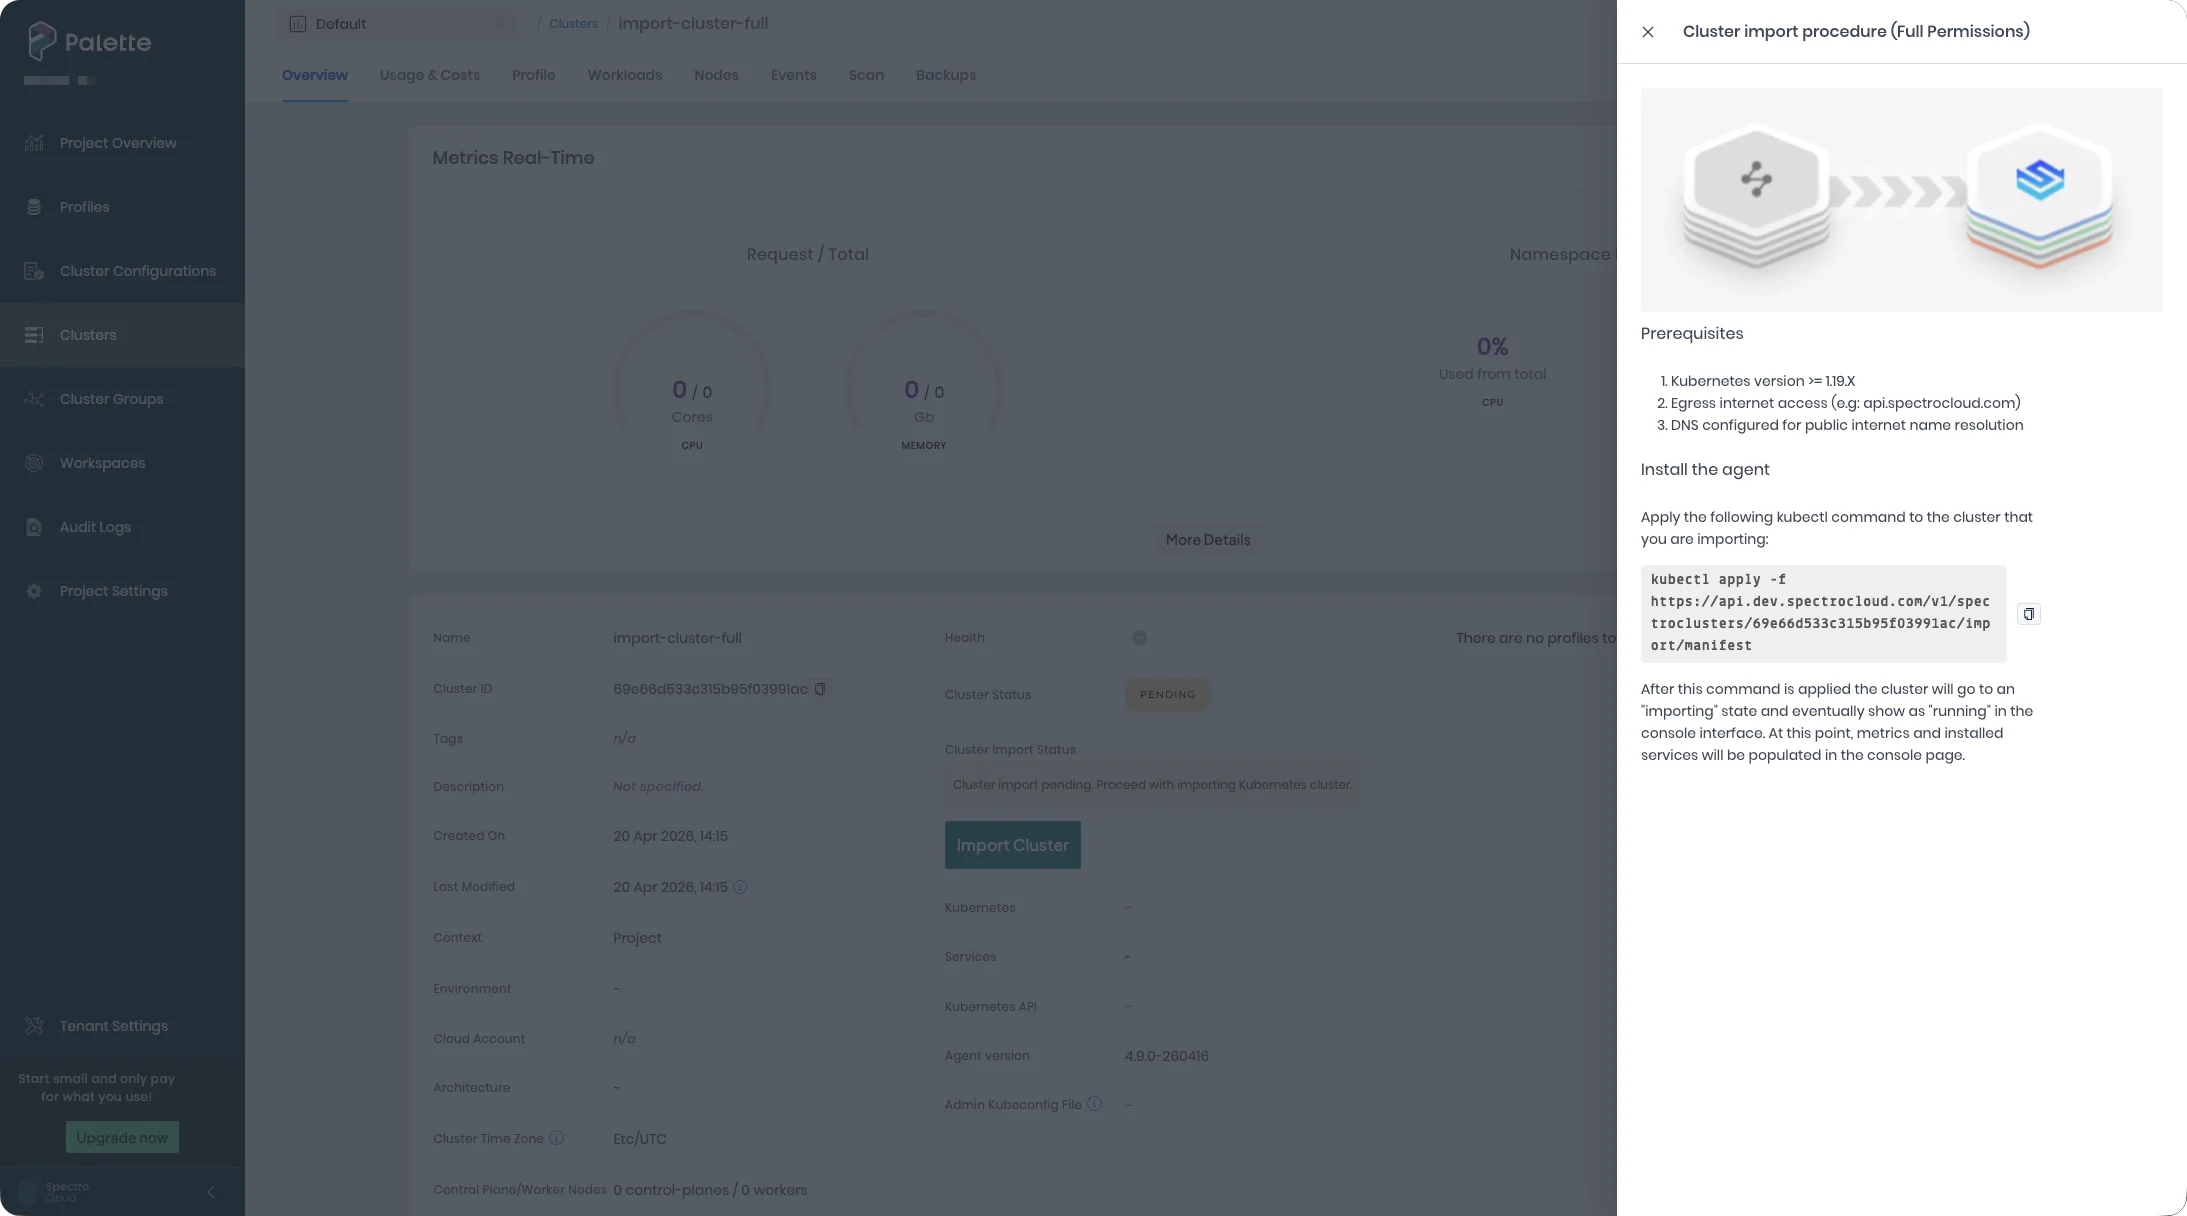
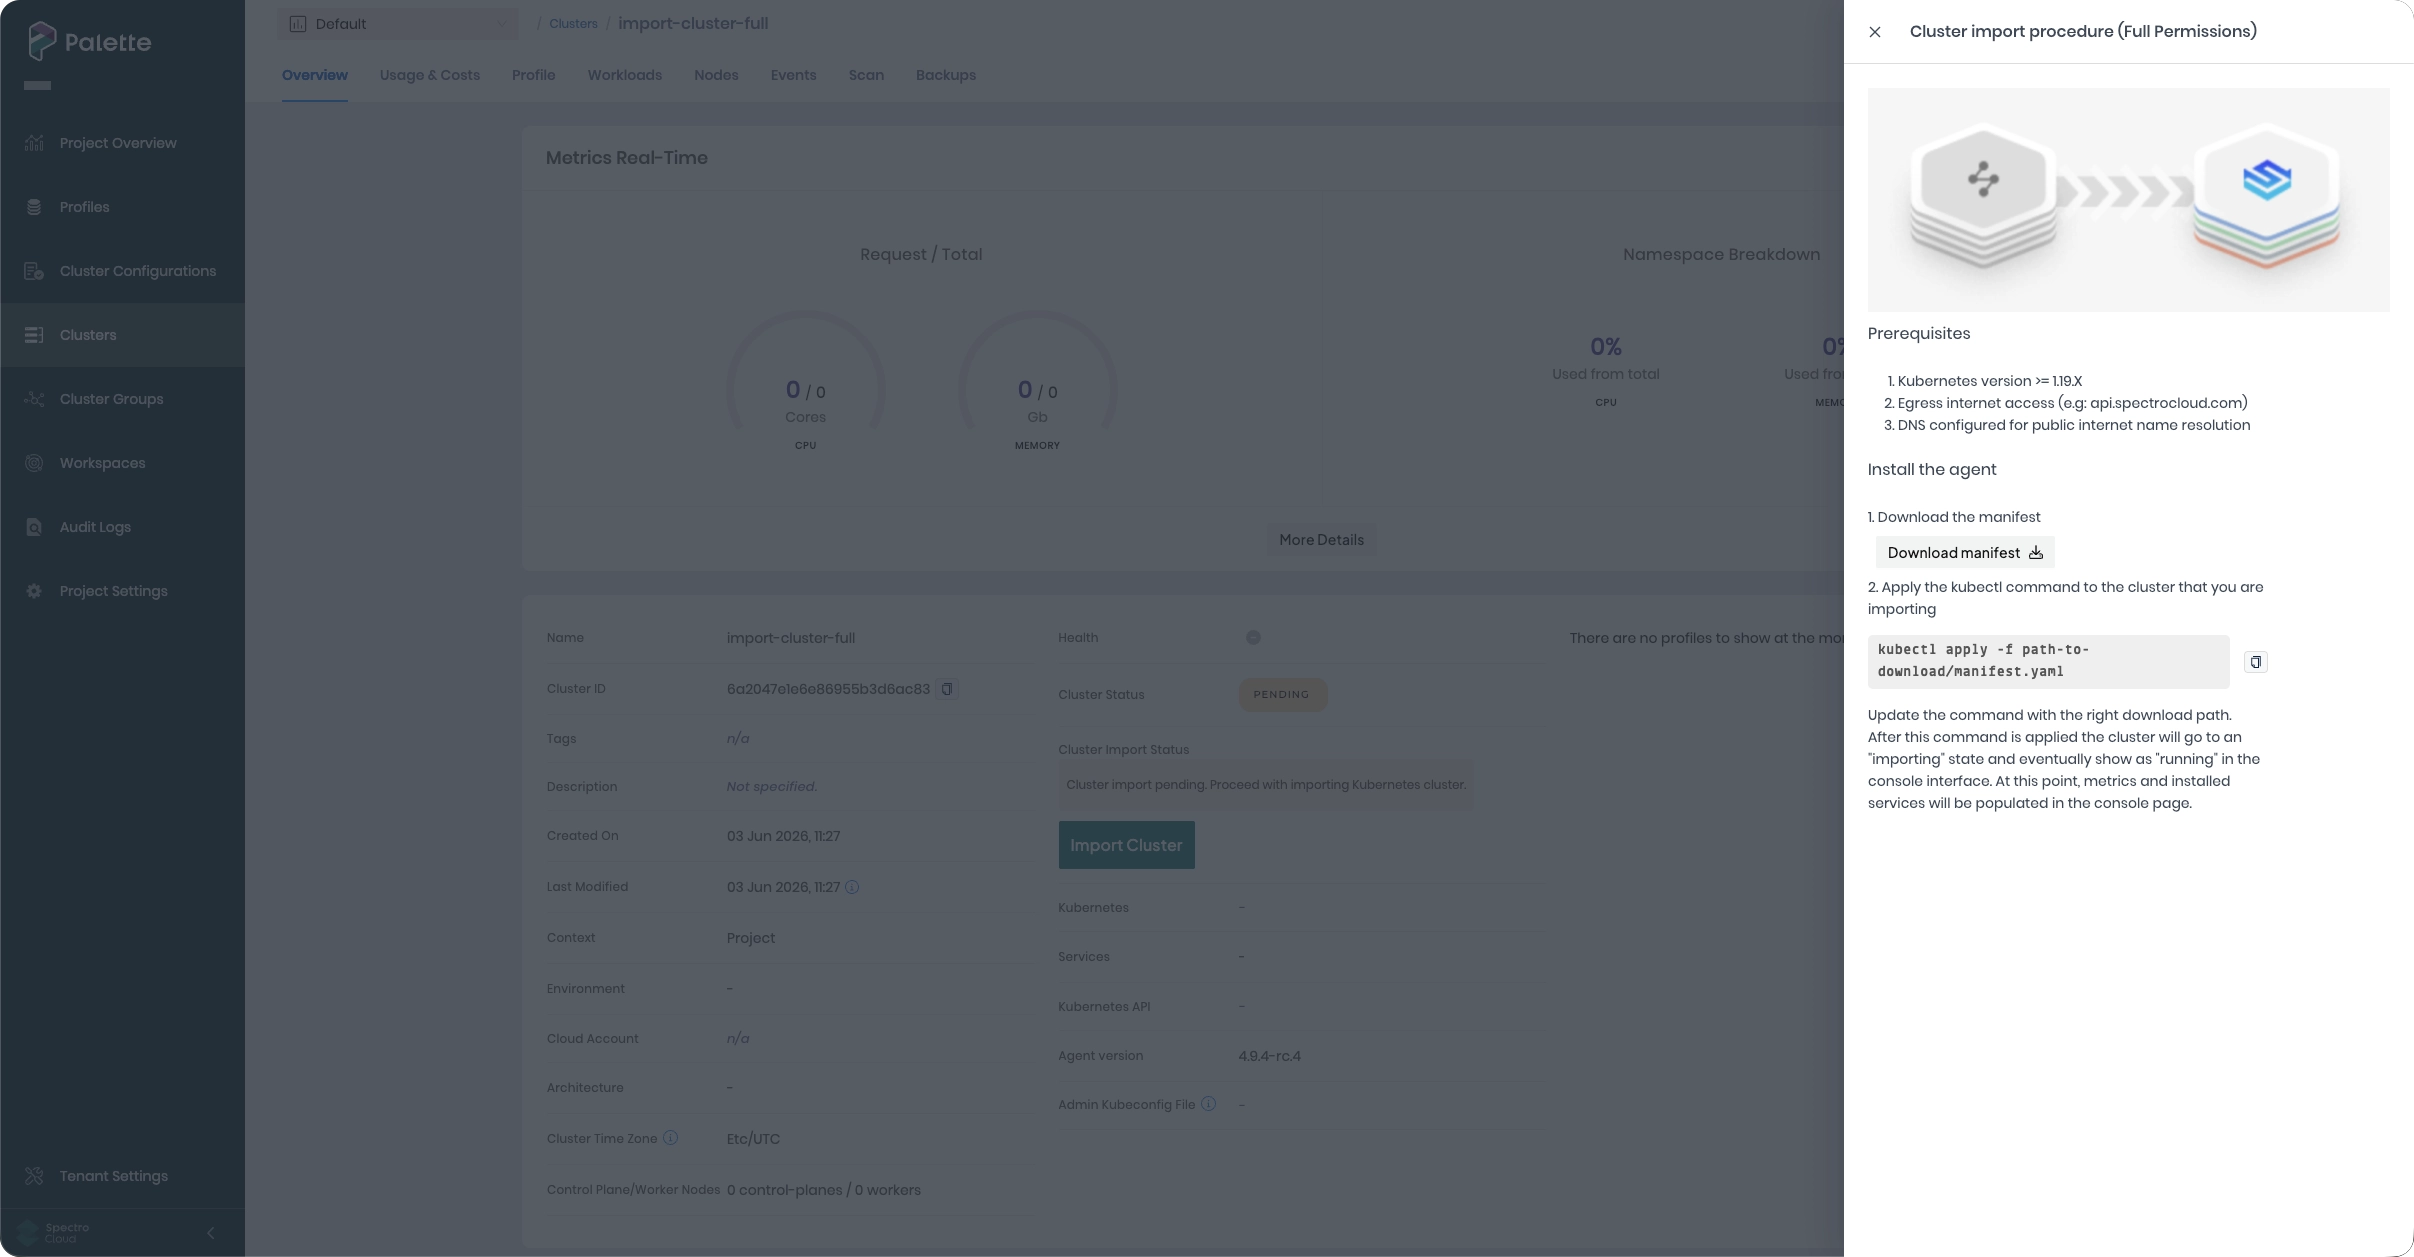
Cluster import and self-hosted PCG flow updates

diff --git a/docs/docs-content/clusters/pcg/deploy-pcg-k8s.md b/docs/docs-content/clusters/pcg/deploy-pcg-k8s.md
@@ -7,12 +7,15 @@ sidebar_position: 30
 tags: ["pcg"]
 ---
 
-For infrastructure environments that the Palette CLI does not support, you can deploy a Private Cloud Gateway (PCG) to
-an existing Kubernetes cluster.
+For infrastructure environments that the [Palette CLI](./deploy-pcg/deploy-pcg.md) does not support, you can deploy a
+Private Cloud Gateway (PCG) to an existing Kubernetes cluster. The PCG can be installed on any Kubernetes cluster that
+meets the [prerequisites](#prerequisites), regardless of the underlying infrastructure. For example, you can host the
+PCG on an EKS cluster, a self-managed cluster on EC2, or any other cluster that is not managed by Palette.
 
-## Supported Environments
+## Supported Cloud Types
 
-You can deploy a PCG onto an existing Kubernetes cluster that is not managed by Palette to the following environments:
+During PCG creation, you select a **Cloud type** that determines which cloud environment you can deploy workload
+clusters into through the PCG, including:
 
 - AWS
 
@@ -33,7 +36,7 @@ The following table provides the recommended sizing for the PCG based on the num
 the maximum concurrent cluster deployments. You can continue to deploy additional clusters once the current clusters
 deployment batch is complete.
 
-We recommend using a minimum of 3 nodes for production environments. Single node clusters are better suited for
+We recommend using a minimum of three nodes for production environments. Single node clusters are better suited for
 development and testing environments.
 
 ### Single-Node Cluster
@@ -79,7 +82,7 @@ development and testing environments.
     [PCG Sizing](#pcg-sizing) section for more information.
   - A Container Network Interface (CNI) plugin installed.
   - A Container Storage Interface (CSI) plugin installed.
-  - The Kubernetes cluster must use a version of Kubernetes that is compatible to your Palette version. Refer to the
+  - A version of Kubernetes that is compatible to your Palette version. Refer to the
     [Kubernetes Requirements](./pcg.md#kubernetes-requirements) section to find the required Kubernetes version.
 
 - PCG IP address requirements:
@@ -87,17 +90,24 @@ development and testing environments.
   - One IP address for a single-node PCG or three IP addresses for a three-node PCG. Refer to the
     [PCG Sizing](./deploy-pcg-k8s.md#pcg-sizing) section for more information on sizing.
   - One IP address reserved for cluster repave operations.
-  - One IP address for the Virtual IP (VIP).
+  - One IP address for the virtual IP (VIP).
   - DNS can resolve the domain `api.spectrocloud.com` or the domain that you have configured for a self-hosted Palette
     installation.
 
-- If you want Palette to display cluster metrics, ensure that the
+- (Optional) If you want Palette to display cluster metrics, ensure that the
   [metrics server](https://github.com/kubernetes-sigs/metrics-server) is installed in the cluster. You can install the
   metrics server using the following command.
 
-      ```shell
-      kubectl apply --filename https://github.com/kubernetes-sigs/metrics-server/releases/latest/download/components.yaml
-      ```
+  ```shell {4}
+  helm repo add metrics-server https://kubernetes-sigs.github.io/metrics-server/
+  helm upgrade --install metrics-server metrics-server/metrics-server \
+   --namespace kube-system \
+   --set args='{--kubelet-insecure-tls}'
+  ```
+
+  Add the line `--set args='{--kubelet-insecure-tls}'` to the command if your cluster uses self-signed Kubelet
+  certificates, which is common for self-managed clusters. If you do not use the `--kubelet-insecure-tls` argument and
+  you have self-signed Kubelet certificates, the metrics API server will not respond.
 
 ## Install PCG
 
@@ -107,20 +117,28 @@ Use the following steps to install the PCG in your existing Kubernetes cluster.
 
 2. From the left main menu, select **Tenant Settings**.
 
-3. From the **Tenant Settings** menu, select **Private Cloud Gateways > Add New Private Cloud Gateway**.
+3. From the **Tenant Settings** menu, select **Private Cloud Gateways** > **Add New Private Cloud Gateway**.
 
-4. On the **Private Cloud Gateway installation instructions** dialog, select **Self Hosted**.
+4. On the **Private Cloud Gateway installation instructions** modal window, select **Self Hosted**.
 
 5. Enter a **Private cloud gateway** name and use the **Cloud type** drop-down menu to select the target infrastructure
-   provider. **Create** your PCG when finished. You are redirected to the Private Cloud Gateway **Overview** page.
+   provider.
 
-6. To install the Palette agent, copy the kubectl commands from the side drawer and execute them against your
-   self-hosted cluster. Issue the commands in the order they are listed.
+6. **Create** your PCG when finished. A set of instructions with commands is displayed on the drawer.
 
-   ![View of the cluster details page with the side drawer extended that contains the kubectl commands](/clusters_pcg_deploy-pcg-k8s_kubectl-cmds-view.webp)
+   ![View of the cluster details page with the side drawer extended that contains the kubectl commands](/deploy-pcg-k8s_kubectl-cmds-view.webp)
 
-7. Close the side drawer once you issue both commands. The **Cluster Status** field displays **Pending** while the PCG
-   is deploying. The deployment is complete when the **Cluster Status** field displays the status **Running**.
+7. Select **Download manifest**.
+
+8. Apply the downloaded manifests to your Kubernetes cluster using the appropriate download paths.
+
+   ```hideClipboard shell
+   kubectl apply --filename <path-to-download>/cluster-*-jet-manifest.yaml
+   kubectl apply --filename <path-to-download>/cluster-*-ally-manifest.yaml
+   ```
+
+9. When the agents initialize, the drawer disappears, and your **Cluster Status** transitions to **Running**. Within a
+   few minutes, your cluster's **Health** status changes to **Healthy**.
 
    :::tip
 

diff --git a/docs/docs-content/clusters/imported-clusters/cluster-import.md b/docs/docs-content/clusters/imported-clusters/cluster-import.md
@@ -56,11 +56,12 @@ the cluster.
 
    ![A view of the cluster details page with the sidebar instructions box](/clusters_imported-clusters_full-permissions-instructions.webp)
 
-7. To install the Palette agent, run the command displayed in the drawer against the Kubernetes cluster you want to
-   import. The command is customized for your cluster, as it contains the assigned cluster ID.
+7. Select **Download manifest**.
 
-   ```hideClipboard shell title="Example command"
-   kubectl apply --filename https://api.spectrocloud.com/v1/spectroclusters/6491d4a94c39ad82d3cc30ae/import/manifest
+8. Apply the manifest to your Kubernetes cluster to install the Palette agent using the appropriate download path.
+
+   ```hideClipboard shell
+   kubectl apply --filename <path-to-download>/manifest.yaml
    ```
 
    ```hideClipboard shell title="Example output"
@@ -87,7 +88,7 @@ the cluster.
 
    :::
 
-8. When the Palette agent completes initializing, the drawer disappears, and your **Cluster Status** transitions to
+9. When the Palette agent completes initializing, the drawer disappears, and your **Cluster Status** transitions to
    **Running**. Within a few minutes, your cluster's **Health** status changes to **Healthy**.
 
 You now have imported a cluster into Palette with full permissions.
@@ -220,11 +221,12 @@ about each mode.
 
    :::
 
-8. To install the Palette agent, run the command displayed in the drawer against the Kubernetes cluster you want to
-   import. The command is customized for your cluster, as it contains the assigned cluster ID.
+8. Select **Download manifest**.
+
+9. Apply the manifest to your Kubernetes cluster to install the Palette agent using the appropriate download path.
 
    ```hideClipboard shell
-   kubectl apply --filename https://api.spectrocloud.com/v1/spectroclusters/6491d4a94c39ad82d3cc30ae/import/manifest
+   kubectl apply --filename <path-to-download>/manifest.yaml
    ```
 
    ```hideClipboard shell title="Example output"
@@ -261,8 +263,8 @@ about each mode.
    secret/hubble-secrets created
    ```
 
-9. When the Palette agent completes initializing, the drawer disappears, and your **Cluster Status** transitions to
-   **Running**. Within a few minutes, your cluster's **Health** status changes to **Healthy**.
+10. When the Palette agent completes initializing, the drawer disappears, and your **Cluster Status** transitions to
+    **Running**. Within a few minutes, your cluster's **Health** status changes to **Healthy**.
 
 You now have imported a cluster into Palette in read-only mode. Keep in mind that a cluster imported in read-only mode
 has limited capabilities, indicated by the disabled tabs. You can migrate to full permissions anytime by clicking
